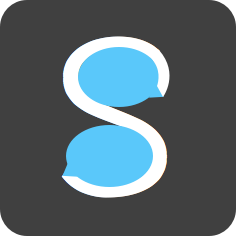
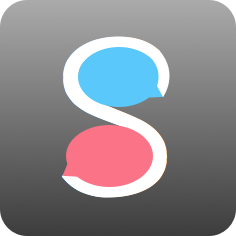
started question index

diff --git a/topic1.html b/topic1.html
@@ -20,24 +20,27 @@
           
           <!-- Index -->
           <div class="swiper-slide">
-            <div class="summaryOnFront"> Test </div>
-            <div class="summaryOnFront"> Test </div>
+            <div class="index-all-questions">
+              <div class="index-question" id="index-question-1"> Does Iran intend to make a nuclear bomb? </div>
+              <div class="index-question" id="index-question-2"> What are Rouhani's intentions behind the nuclear proposal? </div>
+              <div class="index-question" id="index-question-3"> What does a nuclear Iran mean to regional political stability? </div>
+              <div class="index-question" id="index-question-4"> Will a nuclear deal for Iran go through? </div>
+              <div class="index-question" id="index-question-5"> What are Netanyahu’s reasons for pleading to Congress? </div>
+            </div>
           </div>
 
           <!-- Question 1 -->
           <div class="swiper-slide">
+            <a name="question1"></a>
             <div class="contentBlockTitle1 content-block-title">Does Iran intend to make a nuclear bomb?</div>
             <div class="swiper-container opinion-swiper" id="opinion-swiper-1">
               <div class="rotatePagination swiper-pagination" id="opinion-swiper-1-pagination"></div>
               <div class="swiper-wrapper">
-                      
-
-
 
                 <!-- Question 1  - Opinion 1 -->
                 <div class="swiper-slide">
                   <div class="swiperSlideDiv">
-                    <h3>If they wanted to, they would have</h3>
+                    <h3 class="opinion-title">If they wanted to, they would have</h3>
                     <p>It’s been widely accepted that Iran has had the capability to make the Nuclear bomb for last decade. The reason that they have not till now is that they understand that the global backlash from possessing nuclear weaponry without being officially recognized as a nuclear state would outweigh the defensive benefits of owning the weapon. Iran ia aware that the likeliness of a nuclear bomb being used in today’s world is next to none. Therefore the country’s politicians believe the simply symbolic show of strength is not worth invoking subsequent global and unanimous opposition. <a href="#" data-popup=".t1-q1-o1" class="open-popup"> Learn more </a></p>
                     <div class="cardFact">
                       <p>
@@ -50,7 +53,7 @@
                 <!-- Question 1  - Opinion 2 -->
                 <div class="swiper-slide">
                   <div class="swiperSlideDiv">
-                    <h3>Unstable politics, unstable promises</h3>
+                    <h3 class="opinion-title">Unstable politics, unstable promises</h3>
                     <p>While Iran’s current president, Hassan Rouhani, has often dismissed his country’s nuclear weaponry intentions, hardliners within Iran’s political hierarchy have often called for the weapons to be made. With the unstable political climate in Iran as well as the surrounding middle eastern countries, Rouhani is not guaranteed control of the country and so its nuclear programme. There have been several rumours of imminent insurgencies in the country so Rouhani’s promise to not make the bomb, while trustable, might well be irrelevant soon. <a href="#" data-popup=".t1-q1-o2" class="open-popup"> Learn more </a> </p>
                     <div class="cardFact">
                       <p>
@@ -63,7 +66,7 @@
                 <!-- Question 1  - Opinion 3 -->
                 <div class="swiper-slide">
                   <div class="swiperSlideDiv">
-                    <h3>Deal hinders Iran’s path to the bomb</h3>
+                    <h3 class="opinion-title">Deal hinders Iran’s path to the bomb</h3>
                     <p>At the current rate at which Iran is already developing its nuclear program, this deal can only hinder their progress. In truth, Iran have had the resources and intelligence to make a nuclear weapon for the past eight years. This deal forces Iran to cap its centrifuges at very low levels, keep enrichment levels well below those that could be used for weapons and convert its existing enriched uranium into fuel rods (which could not be put to military use).  Iran is looking to be accepted as a nuclear state and are willing to sacrifice the development of their facilities for global acceptance. They are not using this deal to fast-track their path to nuclear weaponry. <a href="#" data-popup=".t1-q1-o3" class="open-popup"> Learn more </a></p>
                     <div class="cardFact">
                       <p>
@@ -78,7 +81,8 @@
           </div>
         
           <!-- Question 2 -->
-          <div class="swiper-slide">
+          <div class="swiper-slide" id="test">
+            <a name="question2"></a>
             <div class="contentBlockTitle1 content-block-title">What are Rouhani's intentions behind the nuclear proposal?</div>
             <div class="swiper-container opinion-swiper" id="opinion-swiper-2">
               <div class="rotatePagination swiper-pagination" id="opinion-swiper-2-pagination"></div>
@@ -87,7 +91,7 @@
                 <!-- Question 2  - Opinion 1 -->
                 <div class="swiper-slide">
                   <div class="swiperSlideDiv">
-                    <h3>Rouhani does not want a nuclear bomb</h3>
+                    <h3 class="opinion-title">Rouhani does not want a nuclear bomb</h3>
                     <p>Hassan Rouhani was elected in 2013 in hopes of de-escalating tensions with the West by reaching a comprehensive nuclear deal that would remove international sanctions against Iran. He claims that atomic weapons have not kept nuclear states safe and as such, Iran is not seeking the bomb. Rouhani did not only run as a moderate but headed a delegation that formulated a comprehensive plan to de-escalate tensions with the West and increase confidence in Iran -- in the hope of bringing nuclear energy and not weapons to Iran. <a href="#" data-popup=".t1-q2-o1" class="open-popup"> Learn more </a></p>
                     <div class="cardFact">
                       <p>
@@ -100,7 +104,7 @@
                 <!-- Question 2  - Opinion 2 -->
                 <div class="swiper-slide">
                   <div class="swiperSlideDiv">
-                    <h3>IAEA official questions Rouhani </h3>
+                    <h3 class="opinion-title">IAEA official questions Rouhani </h3>
                     <p>Skepticism persists over whether Iran is in it for the nuclear weapons. IAEA official Heinonen, who has a long record of dealing with Iranian leaders, claims that Rouhani boasted of how he used talks with the West to “buy time to advance Iran’s programme.” As negotiations draw longer, it seems that the deal is not being implemented in good faith and that Iran is playing games. <a href="#" data-popup=".t1-q2-o2" class="open-popup"> Learn more </a></p>
                     <div class="cardFact">
                       <p>
@@ -113,7 +117,7 @@
                 <!-- Question 2  - Opinion 3 -->
                 <div class="swiper-slide">
                   <div class="swiperSlideDiv">
-                    <h3>Rouhani’s political career on the edge</h3>
+                    <h3 class="opinion-title">Rouhani’s political career on the edge</h3>
                     <p>Iran’s foreign minister, Zarif, warned that failure to agree a nuclear deal would herald the political demise of President Rouhani. Although Zarif denies these claims, a failed deal would supposedly empower Iran’s conservative hardliners, who are part of the Revolutionary Guard Corps, and decrease the chances of Iran’s nuclear program being curbed. In fact, the country is split in their opinion of the nuclear weapons program. As a result, Rouhani is pushing this deal forward.  <a href="#" data-popup=".t1-q2-o3" class="open-popup"> Learn more </a></p>
                     <div class="cardFact">
                       <p>
@@ -129,6 +133,7 @@
           
           <!-- Question 3 -->
           <div class="swiper-slide">
+            <a name="question3"></a>
             <div class="contentBlockTitle1 content-block-title">What does a nuclear Iran mean to regional political stability?</div>
             <div class="swiper-container opinion-swiper" id="opinion-swiper-3">
               <div class="rotatePagination swiper-pagination" id="opinion-swiper-3-pagination"></div>
@@ -137,7 +142,7 @@
                 <!-- Question 3  - Opinion 1 -->
                 <div class="swiper-slide">
                   <div class="swiperSlideDiv">
-                    <h3>Hezbollah links</h3>
+                    <h3 class="opinion-title">Hezbollah links</h3>
                     <p>Iran and its government’s recurring links to Hezbollah serve as a red flag for nuclear help to ever be provided to Iran. Just last week, an Israeli investigation on an infiltrated Hezbollah base revealed that army generals had been sharing intelligence with the Hezbollah hierarchy. This coincides with Iran’s increasing state of economic turmoil since the plummet of oil prices. Being able to sell nuclear weaponry will certainly offset that. Giving nuclear resources such as enriched uranium and weapons grade plutonium to Iran is akin to giving nuclear weaponry to Hezbollah. Iran’s access to such materials raises the threat level. <a href="#" data-popup=".t1-q3-o1" class="open-popup"> Learn more </a></p>
                     <div class="cardFact">
                       <p>
@@ -150,7 +155,7 @@
                 <!-- Question 3  - Opinion 2 -->
                 <div class="swiper-slide">
                   <div class="swiperSlideDiv">
-                    <h3>The Dangers of a Failed Nuclear Deal</h3>
+                    <h3 class="opinion-title">The Dangers of a Failed Nuclear Deal</h3>
                     <p>Iran has come to the table with proposed nuclear deals several times in past decades. Past rejections were motivated by the thought that Iran could not progress as a non-recognised nuclear state. This was repeatedly proved wrong. Iran’s nuclear program has domestically been one of their few points of pride and a further rejection will simply lead to further unconstrained development. However, today they are capable of developing a nuclear weapon. This would fuel Iran’s very public conflict with Israel.  <a href="#" data-popup=".t1-q3-o2" class="open-popup"> Learn more </a></p>
                     <div class="cardFact">
                       <p>
@@ -163,7 +168,7 @@
                 <!-- Question 3  - Opinion 3 -->
                 <div class="swiper-slide">
                   <div class="swiperSlideDiv">
-                    <h3>Nuclear Balance, Stable Region</h3>
+                    <h3 class="opinion-title">Nuclear Balance, Stable Region</h3>
                     <p>Israel's regional nuclear monopoly, has long fueled instability in the Middle East. In no other region of the world does a lone, unchecked nuclear state exist. It is Israel's supposed nuclear arsenal, not Iran's desire for one, that has contributed most to the current crisis. By reducing nuclear imbalances in military power, a nuclear Iran can catalyse more regional and international stability.  <a href="#" data-popup=".t1-q3-o3" class="open-popup"> Learn more </a></p>
                     <div class="cardFact">
                       <p>
@@ -179,6 +184,7 @@
             
           <!-- Question 4 -->
           <div class="swiper-slide">
+            <a name="question4"></a>
             <div class="contentBlockTitle1 content-block-title">Will a nuclear deal for Iran go through?</div>
             <div class="swiper-container opinion-swiper" id="opinion-swiper-4">
               <div class="rotatePagination swiper-pagination" id="opinion-swiper-4-pagination"></div>
@@ -187,7 +193,7 @@
                 <!-- Question 4  - Opinion 1 -->
                 <div class="swiper-slide">
                   <div class="swiperSlideDiv">
-                    <h3>Obama Ready to Walk Away</h3>
+                    <h3 class="opinion-title">Obama Ready to Walk Away</h3>
                     <p>President Obama claims that the US has offered Iran an “extraordinarily reasonable” nuclear deal in an effort to move negotiations in the right direction. The central contention is getting Iran to narrow the gaps in the deal that would allow Iran to make a nuclear weapon. If the deal does not ensure this, then the US will not accept it. This means the deal must provide intrusive inspections and close Iran’s nuclear pathways. Two years of negotiations indicate Iran is not ready to accept this kind of deal. <a href="#" data-popup=".t1-q4-o1" class="open-popup"> Learn more </a></p>
                     <div class="cardFact">
                       <p>
@@ -200,7 +206,7 @@
                 <!-- Question 4  - Opinion 2 -->
                 <div class="swiper-slide">
                   <div class="swiperSlideDiv">
-                    <h3>Netanyahu Getting in the Way</h3>
+                    <h3 class="opinion-title">Netanyahu Getting in the Way</h3>
                     <p>In his speech, Netanyahu warns Congress that a proposed agreement between world powers and Iran would categorically not stop Tehran from getting nuclear weapons -- leaving Israel in great peril. Netanyahu appealed to Obama’s Republican critics in saying that the proposed agreement was a bad deal and that negotiations must keep going -- sparking deafening cheers from the House of Representatives. The speech was an open critique of the White House, darkening relations between Israel and Washington. If Israel’s rhetoric continues to split Congress, a deal is improbable.  <a href="#" data-popup=".t1-q4-o2" class="open-popup"> Learn more </a></p>
                     <div class="cardFact">
                       <p>
@@ -213,7 +219,7 @@
                 <!-- Question 4  - Opinion 3 -->
                 <div class="swiper-slide">
                   <div class="swiperSlideDiv">
-                    <h3>Israel’s “scaremongering” won’t stop deal</h3>
+                    <h3 class="opinion-title">Israel’s “scaremongering” won’t stop deal</h3>
                     <p>Iran’s top nuclear negotiator said that “scaremongering” by Netanyahu will not stop a nuclear deal from passing. He claims that Israel is trying to incite fear within other countries to prevent peace but that leaders will be able to see through these dirty tactics. With an early interim accord reached in 2013, there is a common desire to pass a deal and achieve peace and even Israel cannot get in the way of that.  <a href="#" data-popup=".t1-q4-o3" class="open-popup"> Learn more </a></p>
                     <div class="cardFact">
                       <p>
@@ -226,7 +232,7 @@
                 <!-- Question 4  - Opinion 4 -->
                 <div class="swiper-slide">
                   <div class="swiperSlideDiv">
-                    <h3>Rouhani’s referendum to pass the deal</h3>
+                    <h3 class="opinion-title">Rouhani’s referendum to pass the deal</h3>
                     <p>Rouhani realizes that sanctions have put Iran in a difficult economic situation. He claims “our ideals are not bound to centrifuges” and appeals to the country’s hardliners to reconsider the scope of their uranium enrichment program. Rouhani notes that under the constitution, Iranians are entitled to have important issues put to a referendum instead of a parliamentary issue. This would make the deal difficult to oppose by hardliners. This suggests that Rouhani’s intentions are to pass the deal.   <a href="#" data-popup=".t1-q4-o4" class="open-popup"> Learn more </a></p>
                     <div class="cardFact">
                       <p>
@@ -242,6 +248,7 @@
           
           <!-- Question 5 -->
           <div class="swiper-slide">
+            <a name="question5"></a>
             <div class="contentBlockTitle1 content-block-title">What are Netanyahu’s reasons for pleading to Congress?</div>
             <div class="swiper-container opinion-swiper" id="opinion-swiper-5">
               <div class="rotatePagination swiper-pagination" id="opinion-swiper-5-pagination"></div>
@@ -250,7 +257,7 @@
                 <!-- Question 5  - Opinion 1 -->
                 <div class="swiper-slide">
                   <div class="swiperSlideDiv">
-                    <h3>Fear</h3>
+                    <h3 class="opinion-title">Fear</h3>
                     <p>Netanyahu is applying his usual scaremongering tactics to a US congress he knows is heavily against the Obama administration. He is trying to put pressure on Obama by appealing to the Republicans. Something he managed to do successfully judging by the unnecessary amount of clapping exhibited. <a href="#" data-popup=".t1-q5-o1" class="open-popup"> Learn more </a></p>
                     <div class="cardFact">
                       <p>
@@ -263,7 +270,7 @@
                 <!-- Question 5  - Opinion 2 -->
                 <div class="swiper-slide">
                   <div class="swiperSlideDiv">
-                    <h3>Showing Strength</h3>
+                    <h3 class="opinion-title">Showing Strength</h3>
                     <p>Netanyahu used this opportunity to embarrass the President hoping it would undermine Obama’s efforts to reach a deal with Iran. By being invited by a speaker of the congress as opposed to the president and then riddling his speech with digs at Obama, Netanyahu wanted to show his supporters and opposition at home that he was not being silenced by the United States.  <a href="#" data-popup=".t1-q5-o2" class="open-popup"> Learn more </a></p>
                     <div class="cardFact">
                       <p>
@@ -276,7 +283,7 @@
                 <!-- Question 5  - Opinion 3 -->
                 <div class="swiper-slide">
                   <div class="swiperSlideDiv">
-                    <h3>Warning the world</h3>
+                    <h3 class="opinion-title">Warning the world</h3>
                     <p>The reason for speaking in congress was in fact not an opportunity for Netanyahu to publically insult the US president. Instead, he wanted to warn the world of what he truly believes is a grave mistake being made by allowing Iran to possess nuclear capabilities. He is adamant that Iran’s nuclear ambitions are malicious. With all eyes on him for once, Netanyahu wanted to bring up points he believed would persuade world leaders to have a second look at this deal. <a href="#" data-popup=".t1-q5-o3" class="open-popup"> Learn more </a></p>
                     <div class="cardFact">
                       <p>

diff --git a/css/my-app.css b/css/my-app.css
@@ -4,19 +4,6 @@
   /*background: blue;*/
 }
 
-/*.rotatePagination{
-
-    -ms-transform: rotate(270deg);
-    -webkit-transform: rotate(270deg); 
-    transform: rotate(270deg);
-
-    
-    height: 5%;
-    width: 5%  !important;
-    margin-left: 45%;
-    margin-right: auto;
-}*/
-
 .topicTitle{
   font-family: 'Rambla', sans-serif;
   font-weight: 800;
@@ -38,21 +25,25 @@
   border-top: thin ridge #DBDEDD;
 }
 
-.page1back{
-  background-image:url(../img/netanyahuBlur.jpg);
-  
+.index-all-questions{
+  margin: auto auto;
+  font-family: 'Rambla', sans-serif;
+  font-weight: 800;
+  font-size: 60px;
+  position: relative;
+  top: 120px;
+  /*top: 18%;
+  transform: translateY(-50%);*/
 }
 
 .index-question{
-  font-family: 'Lora', serif;
   font-size: 14px;
   letter-spacing: 1.2px;
-  width: 60%;
-  margin-left: 5%;
-  padding: 5%;
-  color:white;
-  margin-top: 10%;
-  /*padding: 20px;*/
+  width: 80%;
+  margin: 2% auto;
+  padding: 2%;
+  color: white;
+  border: 1px solid white;
   background: rgb(34,34,34); /* for IE */
   background: rgba(34,34,34,0.75);
 }
@@ -124,6 +115,9 @@
   color: white;
 }
 
+.opinion-title {
+}
+
 .my-swiper-container {
   height: 100%;
 }
@@ -135,17 +129,36 @@
   padding: 5px;
 }
 
+.page1back{
+  background-image: url(../img/netanyahuBlur.jpg);
+  background-size: auto 100%;
+}
+
+.page2back{
+  background-image: url(../img/epa_mideast_israel_palestinians_conflict.jpg);
+  background-size: auto 100%;
+  background-position: center; 
+}
+
+.page3back{
+  background-image: url(../img/demonstrators-defy-curfew-ferguson.jpg);
+  background-size: auto 100%;
+  background-position: center; 
+}
+
 #home-topic1 {
   background-image:url(../img/netanyahu.png);
   background-size:auto 100%;
 }
 
 #home-topic2 {
-  background-image:url(../img/blue.jpeg);
-  background-size:auto 100%;
+  background-image:url(../img/epa_mideast_israel_palestinians_conflict-1.jpg);
+  background-size: auto 100%;
+  background-position: center; 
 }
 
 #home-topic3 {
-  background-image:url(../img/man.jpeg);
-  background-size:auto 100%;
+  background-image:url(../img/demonstrators-defy-curfew-ferguson-1.jpg);
+  background-size: auto 100%;
+  background-position: center; 
 }

diff --git a/js/my-app.js b/js/my-app.js
@@ -12,7 +12,6 @@ var mainView = myApp.addView('.view-main', {
 
 $$(document).on('pageInit', function (e) {
    var page = e.detail.page;
-   console.log("page.name: " + page.name);
    if (page.name == 'topic1') {
         var topicSwiper = new Swiper('.topic-swiper', {
             pagination:'.topic-swiper-pagination',
@@ -43,8 +42,31 @@ $$(document).on('pageInit', function (e) {
             pagination:'#opinion-swiper-5-pagination',
             spaceBetween: 50
         });
+
+        $("#index-question-1").click(function(){
+             location.href = "#question1";
+        });
+
+        $("#index-question-2").click(function(){
+             location.href = "#question2";
+        });
+
+        $("#index-question-3").click(function(){
+             location.href = "#question3";
+        });
+
+        $("#index-question-4").click(function(){
+             location.href = "#question4";
+        });
+
+        $("#index-question-5").click(function(){
+             location.href = "#question5";
+        });
+
    }
-})
+});
+
+    
 
 // Init slider and store its instance in mySwiper variable
 var mySwiperAllTopics = myApp.swiper('#all-topics', {

diff --git a/index.html b/index.html
@@ -42,7 +42,7 @@
         <div class="navbar layout-dark">
           <div class="navbar-inner">
             <!-- We have home navbar without left link-->
-            <div class="center sliding"><img src="img/stance_logo_tiny.png" height="35" width="113" ></div>
+            <div class="center sliding"><img src="img/stance_logo_tiny2.png" height="35" width="113" ></div>
           </div>
         </div>
         <!-- Pages, because we need fixed-through navbar and toolbar, it has additional appropriate classes-->

diff --git a/topic2.html b/topic2.html
@@ -13,7 +13,7 @@
 
 <div class="pages navbar-through">
   <div data-page="topic1" class="page">
-    <div class="page-content">
+    <div class="page2back page-content">
       <!-- Vertical parent slider -->
       <div class="swiper-container my-swiper-container topic-swiper">
         <div class="swiper-pagination topic-swiper-pagination"></div>

diff --git a/topic3.html b/topic3.html
@@ -13,7 +13,7 @@
 
 <div class="pages navbar-through">
   <div data-page="topic1" class="page">
-    <div class="page-content">
+    <div class="page3back page-content">
       <!-- Vertical parent slider -->
       <div class="swiper-container my-swiper-container topic-swiper">
         <div class="swiper-pagination topic-swiper-pagination"></div>
